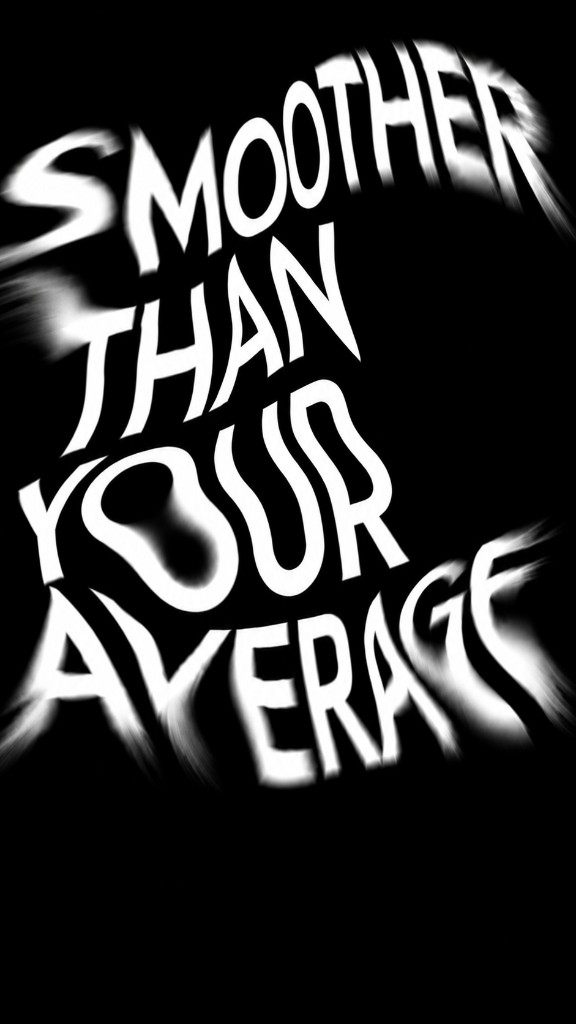
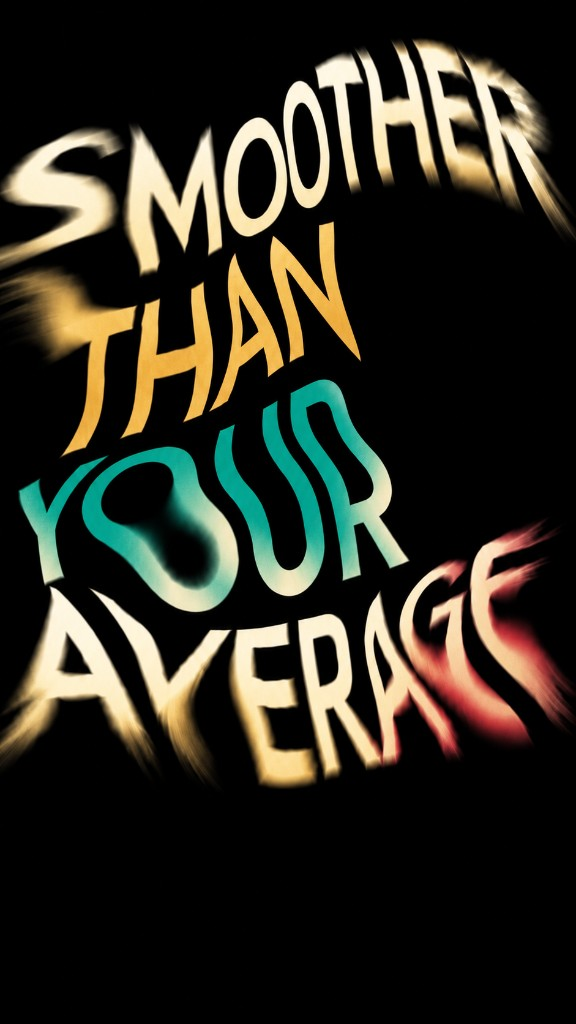
Use the colour slogan artwork as the Two Signature Expressions background.

Changed region(s): [[0.0, 0.0312, 1.0, 0.7812]]

diff --git a/src/components/HeroProductStage.tsx b/src/components/HeroProductStage.tsx
@@ -513,25 +513,25 @@ export function HeroProductStage() {
         aria-label="The Vodka — Product Explorer"
         className="relative z-20 flex min-h-[calc(100svh-4rem)] w-full flex-col justify-center overflow-hidden scroll-mt-16 border-b border-[#BDBDBD]/15 bg-[#050505] py-5 sm:py-6 md:py-8 lg:py-10"
       >
-        {/* Responsive Background ("SMOOTHER THAN YOUR AVERAGE" warped monochrome artwork) at 50% opacity */}
+        {/* Responsive Background ("SMOOTHER THAN YOUR AVERAGE" colour artwork) at 50% opacity */}
         <div
           aria-hidden="true"
           className="pointer-events-none absolute inset-0 z-0 overflow-hidden"
         >
-          {/* Phone / Mobile Viewport (< 768px): Portrait 9:16 artwork behind top bottle */}
+          {/* Phone / Mobile Viewport (< 768px): Portrait artwork behind the bottle */}
           <img
-            src="/media/bw/m04-vodka-bg-smoother-mobile-bw.jpg"
+            src="/media/originals/m04-vodka-bg-smoother-mobile.jpg"
             alt=""
             style={{ opacity: 0.5 }}
-            className="bw-enforced-media block h-full w-full object-cover object-top select-none md:hidden"
+            className="vodka-color-bg block h-full w-full object-cover object-top select-none md:hidden"
           />
 
-          {/* Desktop / Tablet Viewport (>= 768px): Wide 16:6 artwork behind left bottle */}
+          {/* Desktop / Tablet Viewport (>= 768px): Wide artwork behind the left bottle */}
           <img
-            src="/media/bw/m04-vodka-bg-smoother-bw.jpg"
+            src="/media/originals/m04-vodka-bg-smoother.jpg"
             alt=""
             style={{ opacity: 0.5 }}
-            className="bw-enforced-media hidden h-full w-full object-cover object-left select-none md:block"
+            className="vodka-color-bg hidden h-full w-full object-cover object-left select-none md:block"
           />
 
           {/* Subtle edge blends for phone (top-to-bottom readability) and desktop (left-to-right readability) */}

diff --git a/src/app/globals.css b/src/app/globals.css
@@ -121,7 +121,11 @@ img.product-color-media:hover,
 img.product-color-media:focus,
 img.product-color-media:active,
 .group:hover img.product-color-media,
-.group:focus-within img.product-color-media {
+.group:focus-within img.product-color-media,
+img.vodka-color-bg,
+img.vodka-color-bg:hover,
+img.vodka-color-bg:focus,
+img.vodka-color-bg:active {
   filter: none !important;
   -webkit-filter: none !important;
 }
